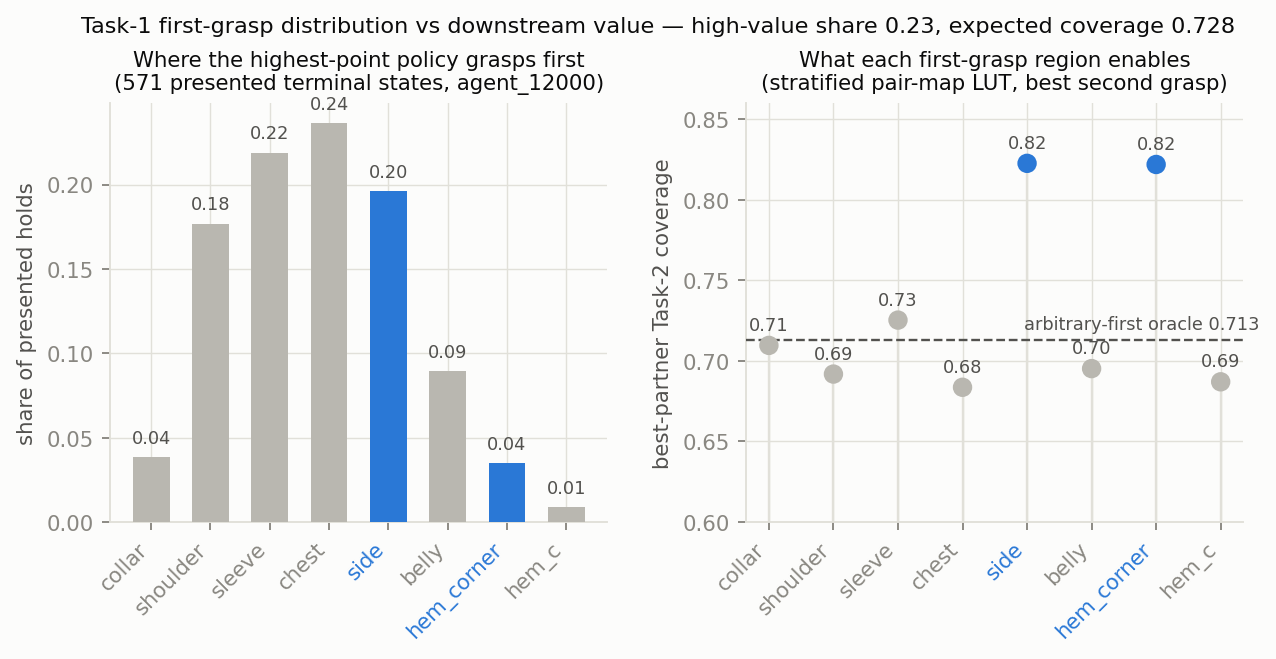
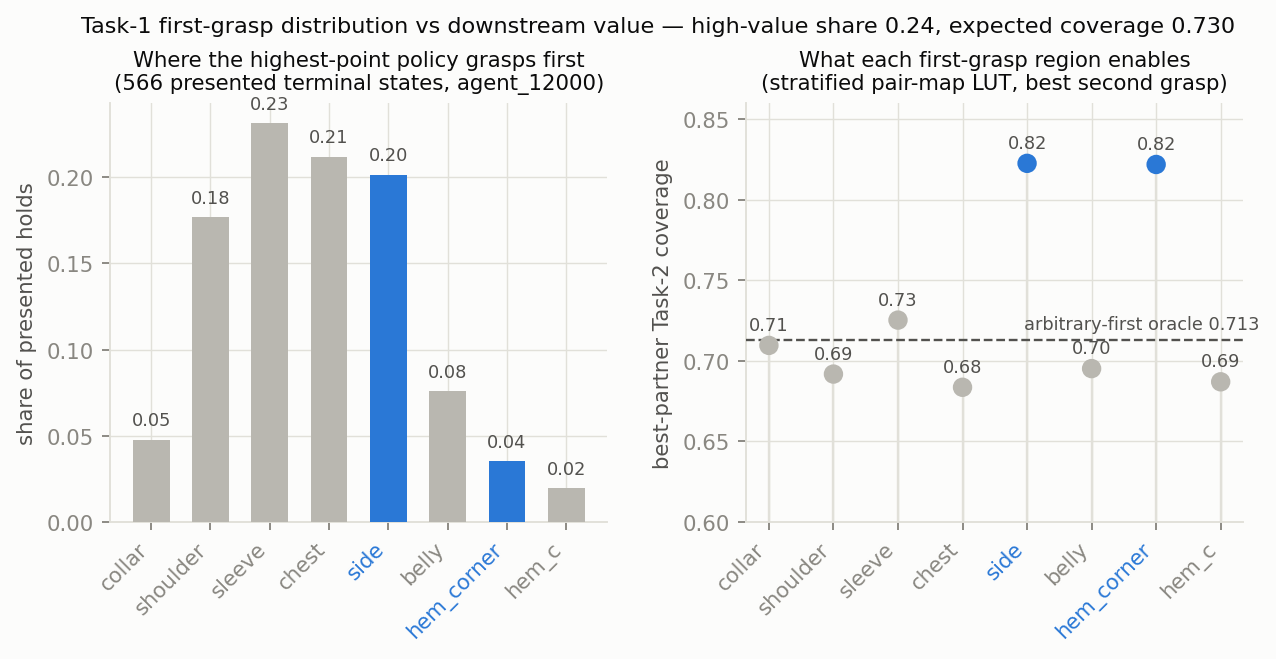
shirt_pick S0 final: canonical 32-env terminal bank + slip-audit finding
Canonical bank: 576 states / 566 presented, agent_12000 @ 32 envs seed 7,
env drop_rate 0.0521 (matches history). Slip audit via per-episode flags:
ALL 30 drops are PRE-latch transients (re-grasped; 576/576 end attached) —
no post-latch slips exist at the seam; drop frequency is env-count-dependent
(0/576 at 64 envs). First-grasp regions: high-value share 0.237, expected
best-partner coverage 0.730. Tracking report + TODO (S0 tick, S2 partial)
updated; generator gained an env drop_rate cross-check.

diff --git a/doc/reports/shirt_pick_optimization_tracking.md b/doc/reports/shirt_pick_optimization_tracking.md
@@ -381,3 +381,112 @@ Phase-3 summary vs the user review: both issues closed —
 validated on-belt), (2) presentation at the workspace-analysis pose
 (0.15, 0.9, 1.6), probe-verified with **no effort-limit or action-clip
 changes needed** (joints bind nowhere; peak torque fraction 0.78 wrist_x).
+
+---
+
+## Stage-2 S0: Task-1→2 Terminal Bank (T1)
+
+**Date:** 2026-07-12 · agent: T1 (pick grasp head) ·
+plan: [pipeline_stage2_execution_plan.md](../pipeline_stage2_execution_plan.md) S0
+
+### Generator
+
+`scripts/asset_generation/generate_pick_terminal_bank.py` — deterministic
+(mean-action) rollout of the selected checkpoint
+(`2026-07-03_19-33-17_ppo_torch_seed3/agent_12000`) over the crumpled bank,
+snapshot at the step the present latch fires
+(`ShirtPickEnv.snapshot_terminal_states`), then the episode runs on so the
+post-latch outcome is recorded.  Slips are **included** (report §3 Stage 0).
+Never-latched episodes are snapshotted on their last step with
+`presented=False` (consumer filters).  Per-state metadata: presented / slip /
+pre-latch-drop / regrasp / end-attached flags, latch step, representative
+grasp particle (welded slot-0 particle nearest the finger tip), region labels
+(12 fine + 8 symmetrized) from the study's `regions.assign_regions` on the
+flat-rest coords (verified to reproduce `present_markers.pt::particle_region`
+exactly after l/r folding).
+
+### Measured results
+
+| Run | envs | episodes | presented | drops (env metric) | pre-latch drops | post-latch slips | end-attached |
+|---|---|---|---|---|---|---|---|
+| bank 64-env probe (not retained) | 64 | 576 | 571 | 0 | 0 | 0 | 576/576 |
+| regression eval (agent_12000, seed 7, 96 eps) | 32 | 96 | 1.000 present / 1.000 grasp | **0.062** | — | — | — |
+| **bank (canonical)** | 32 | 576 | **566** | **0.0521** (= 30 eps) | **30** | **0** | **576/576** |
+
+**Finding — the "5–7 % post-latch slips" were mischaracterized.** The
+canonical 32-env run reproduces the historical drop_rate exactly (0.0521 vs
+0.073/0.052), and the bank's per-episode flags decompose it: **all 30 drop
+episodes are PRE-latch transients** — the grasp is lost during pick/lift,
+re-grasped, and the episode still latches present; **every episode
+(576/576, including the 10 never-latched) ends attached**.  There are NO
+post-latch slips and no mid-fall terminal states — the Phase-3 note "loses
+the grasp after the present latch" was an interpretation the env metric
+could not distinguish; the seam distribution Task 2 inherits is
+all-attached, all-presented (plus 10 presented=False last-step states,
+consumer-filterable).  Secondary finding: drop frequency is
+env-count-dependent (0/576 at 64 envs vs 30/576 at 32 envs, same
+checkpoint/seed — PhysX particle batch effect), which is why the canonical
+bank uses the 32-env regime of every historical eval.  The regression eval
+also confirms the S2 env-side edits (latch event, grasp-point override
+hook) are behaviour-neutral for stage-1: 1.000/1.000/0.062 matches the
+Phase-3 selection row.
+
+**First-grasp-region distribution** (canonical bank, 566 presented; the
+thesis gap figure, `scripts/model_validation/plot_pick_terminal_bank.py`):
+high-value share (side + hem_corner) **0.237**, expected best-partner
+coverage **0.730** (vs 0.713 arbitrary-first oracle, 0.820 hem-corner-first
+bound).  chest+sleeve+shoulder soak up 62 % of holds; hem_corner is 3.5 %.
+Figure:
+`doc/reports/figures/shirt_pick/first_grasp_region_distribution.png`.
+
+Generation command (also in the bank's `meta` dict):
+`generate_pick_terminal_bank.py --headless --num_envs 32 --seed 7
+--target_presented 560` →
+`res/Props/Cloth/banks/tshirt_pick_terminal_bank.pt` (151.8 MB, git-lfs,
+576 × 11048 particles).  **Handoff:** bank path to Georg for the G1 seam
+gate (T2 consumes it).
+
+---
+
+## Stage-2 S2: Learned Grasp-Point Head — implementation (T1)
+
+**Date:** 2026-07-12 · training pending (smoke → Alex sweep)
+
+### Offline region→coverage LUT
+
+`scripts/model_validation/build_pick_region_coverage_lut.py` (pure pandas,
+no sim): best-partner median `cov_plane` per first-grasp sym class from
+`present_h3s_stratified.csv` (8192 valid trials, min 25/cell — the
+`plot_study.fig_best_partner` method).  Reproduces the study's headline
+cells (hem_corner↔hem_corner 0.822, side→hem_c 0.823):
+
+| first | collar | shoulder | sleeve | chest | side | belly | hem_corner | hem_c |
+|---|---|---|---|---|---|---|---|---|
+| coverage | 0.710 | 0.692 | 0.725 | 0.684 | **0.823** | 0.695 | **0.822** | 0.687 |
+
+Constant embedded in `shirt_pick/mdp/grasp_head.py::REGION_COVERAGE_LUT`;
+the script drift-checks the constant against the CSV (MATCH).
+
+### Head design (task ids `Template-Shirt-Pick-Head-Tensegrity[-Play]-v0`)
+
+* **Action (+2 dims):** continuous xy offset around the highest point,
+  clamped to 0.15 m and snapped to the local cloth top (top-20 particles
+  within 0.05 m) — always on the visible upper surface (depth-camera
+  contract).  Zero action ≡ stage-1 target; target falls back to the plain
+  highest point once the grasp latches (post-grasp semantics untouched).
+  Design (a) over discrete-K candidates (b): native fit for the Gaussian
+  PPO profile; (b) is the documented comparison config for the Alex sweep.
+* **Obs (+37 dims):** 12 region-landmark keypoints rel. finger tip
+  (privileged read of exactly those particles; to be rebased onto INF M2's
+  `keypoints_with_visibility` once Georg merges it) + border distance of the
+  current grasp target.
+* **Reward:** `coverage_terminal_bonus` weight 1800 — one-shot on the new
+  `present_latch_event`, min-max-normalised LUT value of the achieved hold
+  region (dt-scaled ≈ 30 × norm; hem_corner/side ≈ +30, chest ≈ 0 — worth
+  rerouting the approach, not worth skipping the latch).  Sequential stage-1
+  structure untouched.
+* **Metrics:** `Metrics/high_value_hold_rate`, `Metrics/pred_coverage`
+  (logged at reset; printed by `evaluate_shirt_pick.py`).
+
+Gate (unchanged): realized Task-2 coverage from Task-1 holds > 0.713, else
+revert to plain highest point; ≤ 3 seeds × 2 configs on Alex before review.

diff --git a/doc/TODO.md b/doc/TODO.md
@@ -361,10 +361,16 @@ choice + a cooperative Task 2, not more robot-2 training.
 
 ### S0 — Chaining seams & re-threshold (thesis-critical)  → 🤖 T1 + T2
 
-- 🔴 **Task-1→2 terminal bank** [T1]: rollout script over the trained pick policy
-  (`agent_12000`), snapshot at the present latch via the existing
-  `ShirtPickEnv.snapshot_terminal_states` hook, **including the 5–7 % post-latch slip
-  episodes** (they are the real distribution Task 2 must survive — report §3 Stage 0).
+- ✅ **Task-1→2 terminal bank** [T1] (2026-07-12): 
+  `res/Props/Cloth/banks/tshirt_pick_terminal_bank.pt` — 576 states / 566 presented,
+  agent_12000 deterministic @ 32 envs seed 7 via
+  `scripts/asset_generation/generate_pick_terminal_bank.py`.  Slip audit: the 5–7 %
+  drops are ALL **pre-latch transients** (30/576, re-grasped, every episode ends
+  attached) — no post-latch slips exist at the seam; drop frequency is
+  env-count-dependent (0 at 64 envs).  First-grasp regions: high-value share 0.237,
+  expected best-partner coverage 0.730 (figure in `doc/reports/figures/shirt_pick/`).
+  → hand to Georg for the G1 seam gate (details:
+  [shirt_pick_optimization_tracking.md](reports/shirt_pick_optimization_tracking.md)).
 - 🔴 **Task-2 success gate 0.50 → 0.65 + tautness-pulse legitimacy** [T2]: raise the coverage
   gate to the study's threshold; don't penalize overshoot-then-relax trajectories (study §5.6:
   pulse halves settle time at no coverage cost). Retrain folds into S1 (one retrain, not two).
@@ -383,13 +389,16 @@ choice + a cooperative Task 2, not more robot-2 training.
 
 ### S2 — Task-1 learned grasp head (thesis-critical)  → 🤖 T1
 
-- 🔴 **Grasp-choice MDP**: 12 region-landmark keypoint observations (privileged reads of ONLY
-  the 12 landmark particles — camera-contract-compatible) + border-distance feature; make the
-  pick target policy-selectable (candidate set around the depth-trivial highest point);
-  terminal bonus ∝ predicted downstream coverage of the achieved hold region (lookup table
-  derived offline from the study's stratified pair map). *Gate:* realized Task-2 coverage from
-  Task-1 holds > **0.713** (arbitrary-first-grasp oracle) within ~100 k steps × 3 seeds, else
-  revert to highest-point + oracle-target Task 2 (report §2-Q1 decision gate).
+- 🟡 **Grasp-choice MDP** — implementation ✅ (2026-07-12, T1), training pending: task ids
+  `Template-Shirt-Pick-Head-Tensegrity[-Play]-v0` (`shirt_pick/mdp/grasp_head.py`) — 2-dim
+  surface-snapped xy-offset action around the highest point (zero ≡ stage-1, frozen
+  post-latch), 12 keypoint + border-dist obs (privileged; rebase onto INF M2
+  `keypoints_with_visibility` after merge), coverage terminal bonus (weight 1800 on the new
+  `present_latch_event`; LUT from `build_pick_region_coverage_lut.py`, drift-checked).
+  Stage-1 regression clean (1.000/1.000/0.062).  NEXT: local smoke train → ≤ 3 seeds ×
+  2 configs on Alex.  *Gate unchanged:* realized Task-2 coverage from Task-1 holds >
+  **0.713** within ~100 k steps × 3 seeds, else revert to highest-point + oracle-target
+  Task 2 (report §2-Q1 decision gate).
 
 ### S3 — Cooperative Task 2 (thesis-critical → stretch)  → 🤖 T2, after G1 gate
 
